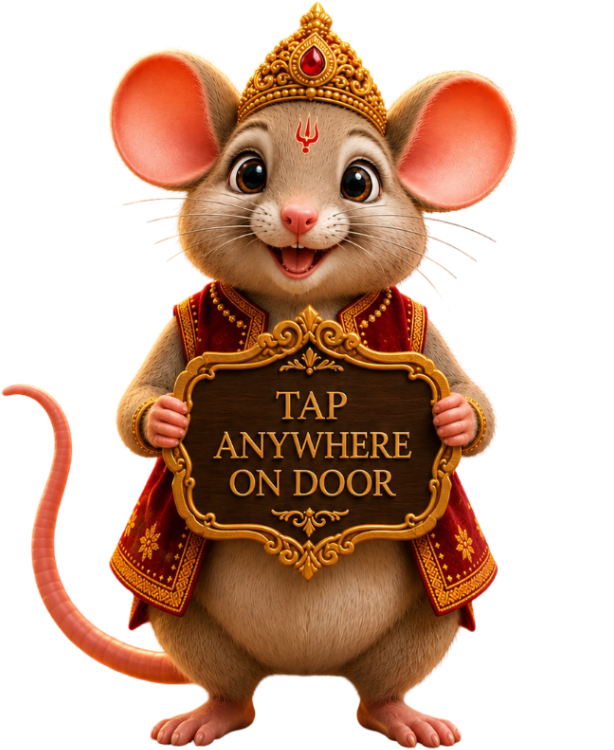
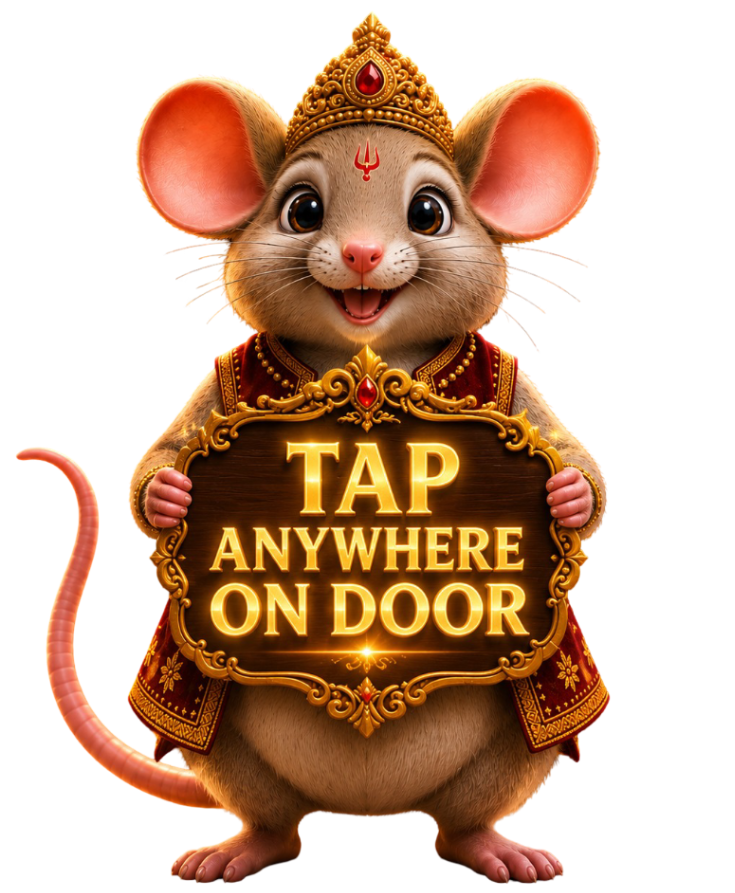
Update Mooshak door guide with new highlighted text image and clean aura

diff --git a/css/style.css b/css/style.css
@@ -332,55 +332,7 @@ body {
   }
 }
 
-/* Concentric Expanding Golden Tap Ripples centered over Mooshak's Sign Board */
-.mooshak-tap-ripple-zone {
-  position: absolute;
-  top: 66%;
-  left: 50%;
-  transform: translate(-50%, -50%);
-  width: 90px;
-  height: 60px;
-  pointer-events: none;
-  z-index: 3;
-  display: flex;
-  justify-content: center;
-  align-items: center;
-}
 
-.tap-ripple-wave {
-  position: absolute;
-  border-radius: 50%;
-  border: 2px solid rgba(255, 223, 0, 0.9);
-  box-shadow: 0 0 14px rgba(255, 215, 0, 0.8), inset 0 0 8px rgba(255, 215, 0, 0.5);
-  animation: boardTapRipple 2.2s cubic-bezier(0.1, 0.7, 0.3, 1) infinite;
-  opacity: 0;
-}
-
-.tap-ripple-wave.ripple-1 {
-  animation-delay: 0s;
-}
-
-.tap-ripple-wave.ripple-2 {
-  animation-delay: 1.1s;
-}
-
-@keyframes boardTapRipple {
-  0% {
-    width: 20px;
-    height: 15px;
-    opacity: 0.95;
-    transform: scale(0.6);
-  }
-  60% {
-    opacity: 0.7;
-  }
-  100% {
-    width: 130px;
-    height: 85px;
-    opacity: 0;
-    transform: scale(1.4);
-  }
-}
 
 @keyframes mooshakDoorBreath {
   0% {

diff --git a/index.html b/index.html
@@ -74,13 +74,6 @@
         <div class="door-mooshak-guide" id="openInviteBtn" role="button" tabindex="0" aria-label="Tap anywhere on door to enter">
           <!-- Divine Golden Aura behind Mooshak -->
           <div class="mooshak-divine-aura" aria-hidden="true"></div>
-
-          <!-- Pulsing Golden Tap Ripple directly over the carved sign board -->
-          <div class="mooshak-tap-ripple-zone" aria-hidden="true">
-            <div class="tap-ripple-wave ripple-1"></div>
-            <div class="tap-ripple-wave ripple-2"></div>
-          </div>
-
           <img src="assets/images/mooshak-door-guide.png" alt="Mooshak - Tap Anywhere on Door" class="mooshak-door-img" width="400" height="600">
         </div>
       </div>
